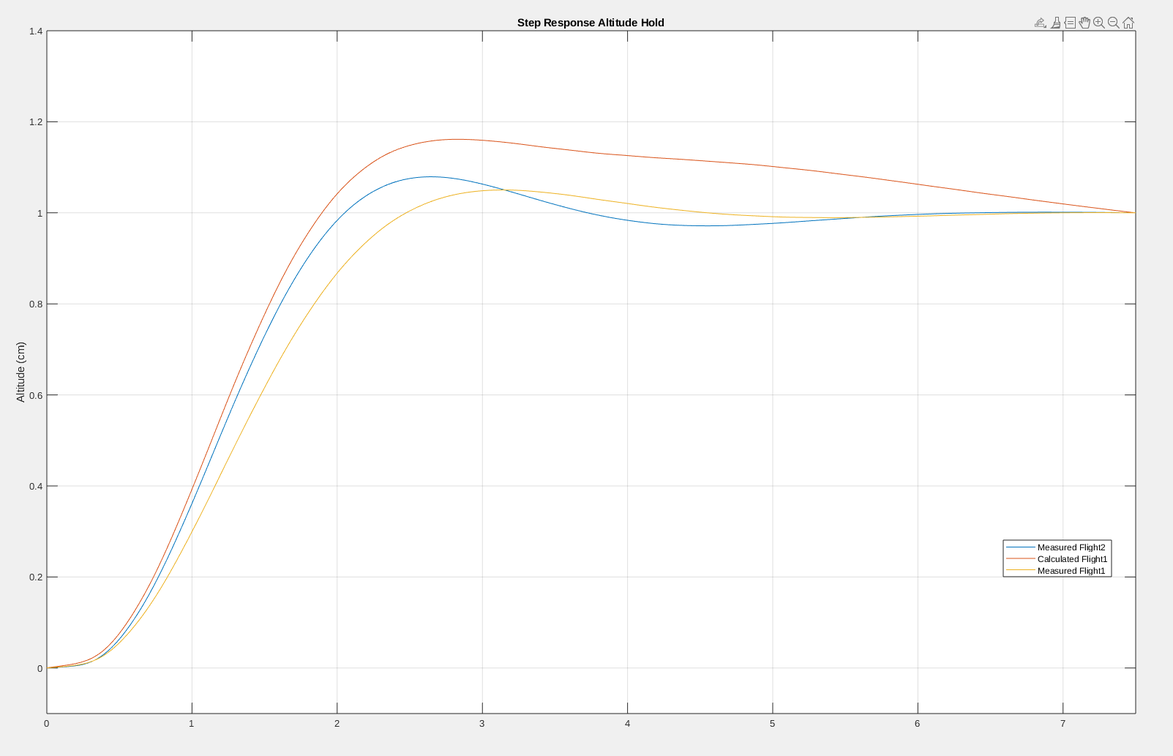
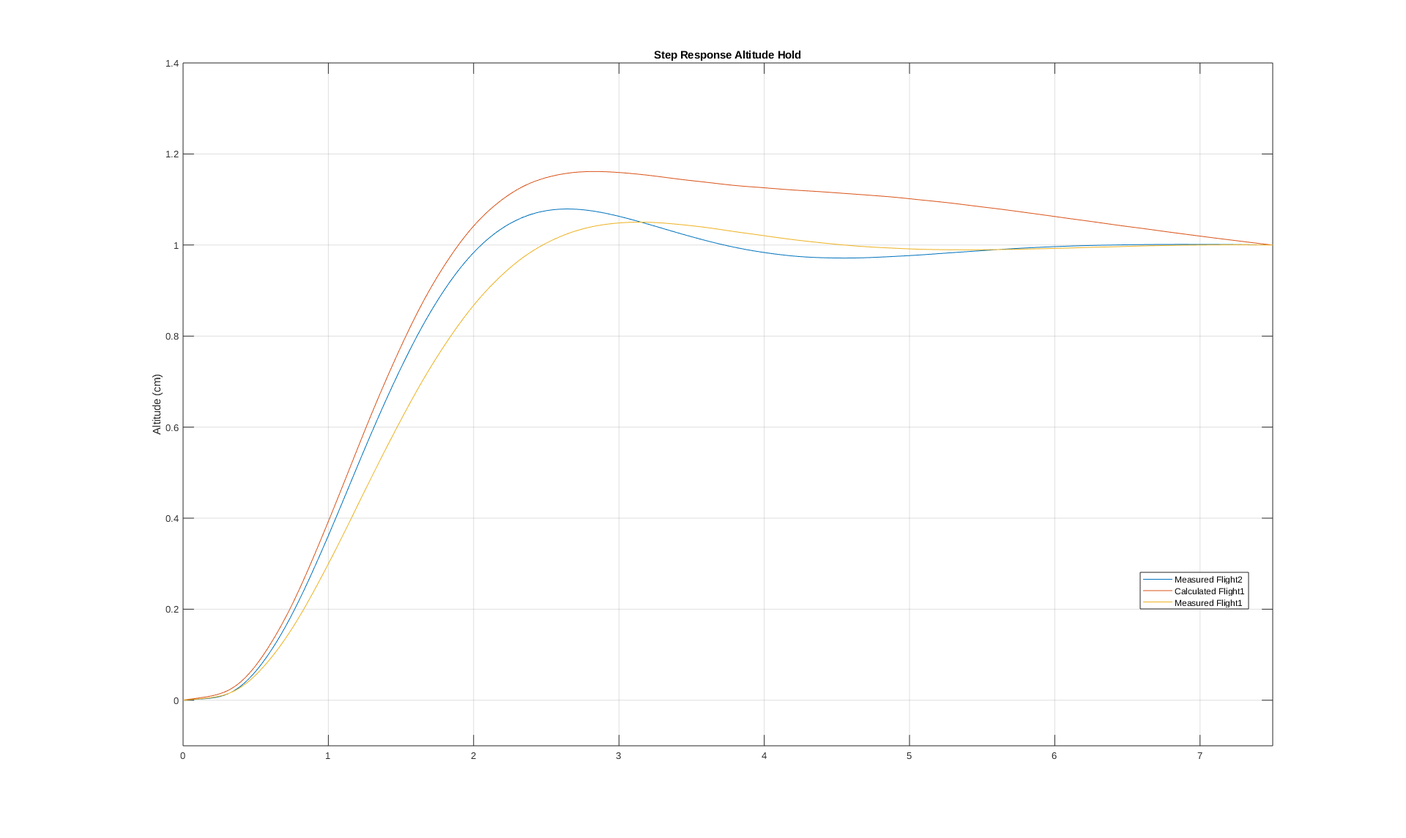
Update Result and Discussion section

diff --git a/latex/main.tex b/latex/main.tex
@@ -2098,48 +2098,24 @@ The althold loop runs at \SI{100}{\hertz}, decimated from the \SI{8}{\kilo\hertz
     \label{fig:althold_gof}
 \end{figure}
 
-Peak magnitudes were extracted within the displayed band \(f \leq \SI{10}{\hertz}\). Of the four Gang-of-Four transfer functions, only the closed-loop tracking \(T\) is directly identifiable from the chirp input/output pair; \(S\), \(SC\) and \(SP\) are computed from the identified plant combined with the controller model and are therefore reported as analytical only. The tracking peaks (analytical and measured) are listed in \autoref{tab:althold_gof_T}; the analytical \(S\), \(SC\), \(SP\) peaks are listed in \autoref{tab:althold_gof_SSCSP}. The analytical responses use the named controller applied to the default-flight plant.
+Of the four Gang-of-Four transfer functions shown in \autoref{fig:althold_gof}, only the closed-loop tracking \(T\) is directly identifiable from the chirp input/output pair; \(S\), \(SC\) and \(SP\) are computed from the identified plant combined with the controller model and are therefore analytical only. Of these, the sensitivity peak is the scalar with a direct robustness interpretation, and it is the only peak reported numerically here. The analytical sensitivity peaks, extracted within the displayed band \(f \leq \SI{10}{\hertz}\) using the named controller applied to the default-flight plant, are listed in \autoref{tab:althold_gof_S}.
 
 \begin{table}[H]
     \centering
-    \caption{Closed-loop tracking peak magnitudes \(|T|\) for the althold loop and the frequencies at which they occur, restricted to \(f \leq \SI{10}{\hertz}\). Analytical: named-case controller applied to the default-flight plant. Measured: directly identified from the chirp input/output pair of the named flight.}
-    \label{tab:althold_gof_T}
-    \begin{tabular}{lrrrr}
+    \caption{Analytical sensitivity peak magnitudes \(|S|\) for the althold loop and the frequencies at which they occur, restricted to \(f \leq \SI{10}{\hertz}\). All values use the named-case controller applied to the default-flight plant.}
+    \label{tab:althold_gof_S}
+    \begin{tabular}{lrr}
         \toprule
-                & \multicolumn{2}{c}{Analytical} & \multicolumn{2}{c}{Measured} \\
-        \cmidrule(lr){2-3}\cmidrule(lr){4-5}
-        Case    & peak [\si{\decibel}] & \(f\) [\si{\hertz}] & peak [\si{\decibel}] & \(f\) [\si{\hertz}] \\
+        Case   & peak [\si{\decibel}] & \(f\) [\si{\hertz}] \\
         \midrule
-        default & ---       & ---   & \(+2.91\) & 0.067 \\
-        tuned   & \(+3.35\) & 0.067 & \(+2.27\) & 0.067 \\
-        medium  & \(+4.68\) & 0.067 & \(+3.23\) & 0.067 \\
-        bad     & \(+6.09\) & 0.067 & \(+4.16\) & 0.067 \\
+        tuned  & \(+6.43\) & 0.400 \\
+        medium & \(+4.82\) & 0.333 \\
+        bad    & \(+3.99\) & 0.267 \\
         \bottomrule
     \end{tabular}
 \end{table}
 
-\begin{table}[H]
-    \centering
-    \caption{Analytical Gang-of-Four peak magnitudes for sensitivity \(S\), controller effort \(SC\) and compliance \(SP\), restricted to \(f \leq \SI{10}{\hertz}\). All values use the named-case controller applied to the default-flight plant.}
-    \label{tab:althold_gof_SSCSP}
-    \begin{tabular}{llrr}
-        \toprule
-        Metric & Case   & peak [\si{\decibel}] & \(f\) [\si{\hertz}] \\
-        \midrule
-        \(S\)  & tuned  & \(+6.43\) & 0.400 \\
-               & medium & \(+4.82\) & 0.333 \\
-               & bad    & \(+3.99\) & 0.267 \\
-        \(SC\) & tuned  & \(+0.27\) & 0.467 \\
-               & medium & \(-2.63\) & 0.867 \\
-               & bad    & \(-4.99\) & 1.133 \\
-        \(SP\) & tuned  & \(+16.76\) & 0.067 \\
-               & medium & \(+20.60\) & 0.067 \\
-               & bad    & \(+24.28\) & 0.067 \\
-        \bottomrule
-    \end{tabular}
-\end{table}
-
-The analytical tracking peak grows monotonically with the gain step from default: \SI{+3.35}{\decibel} (tuned), \SI{+4.68}{\decibel} (medium), \SI{+6.09}{\decibel} (bad). The measured peak follows the same ordering and ranges from \SI{+2.27}{\decibel} (tuned) to \SI{+4.16}{\decibel} (bad). The analytical-versus-measured \(|T|\)-peak difference is \SI{1.08}{\decibel} for tuned, \SI{1.45}{\decibel} for medium and \SI{1.93}{\decibel} for bad. For all entries except the \(SC\) row, the peak falls at the lowest Welch bin (\SI{0.067}{\hertz}), where the joint coherence is below 0.05; the corresponding values therefore reflect the low-frequency end of the response within the available frequency resolution.
+The analytical sensitivity peak increases with the controller gain: it is highest for the tuned case (\SI{+6.43}{\decibel}, close to the \SI{6}{\decibel} value commonly taken as a robustness limit) and lower for the medium (\SI{+4.82}{\decibel}) and bad (\SI{+3.99}{\decibel}) cases, the latter having the lowest gains. This is consistent with the more aggressive tune trading robustness margin for a faster response (cf. the rise times in \autoref{tab:althold_step}). In contrast to the tracking and compliance responses, these sensitivity peaks fall within or near the more coherent part of the band (\SIrange{0.27}{0.40}{\hertz}), so they are less affected by the low-coherence behaviour discussed in the following chapter.
 
 \subsection*{Step Response}
 
@@ -2204,24 +2180,23 @@ The chirp was swept exponentially from \SI{0.05}{\hertz} to \SI{3}{\hertz} over 
     \label{fig:poshold_gof}
 \end{figure}
 
-The tracking peaks, restricted to the excited band \(f \leq \SI{3}{\hertz}\), are listed in \autoref{tab:poshold_gof}. The analytical prediction for the proposed tuning peaks at \SI{+4.79}{\decibel} near \SI{0.20}{\hertz}, within about \SI{0.7}{\decibel} of the measured proposed peak (\SI{+4.05}{\decibel} at the same frequency); the measured baseline peaks lower, at \SI{+2.71}{\decibel}. Below the coherent band (roughly \SIrange{0.27}{3}{\hertz}) the comparison is dominated by wind and GPS noise.
+The analytical and measured tracking responses are compared in \autoref{fig:poshold_gof}. Within the excited band \(f \leq \SI{3}{\hertz}\), the analytical prediction for the proposed tuning peaks near \SI{0.20}{\hertz} and stays within about \SI{0.7}{\decibel} of the measured proposed response there, while the measured baseline peaks lower; below the coherent band (roughly \SIrange{0.27}{3}{\hertz}) the comparison is dominated by wind and GPS noise. As in the altitude-hold loop, the sensitivity peak is the only one of the four transfer functions with a direct robustness interpretation, and it is the only peak reported numerically here; the analytical sensitivity peaks are listed in \autoref{tab:poshold_gof_S}.
 
 \begin{table}[H]
     \centering
-    \caption{Closed-loop tracking peak magnitudes \(|T|\) for the position-hold loop, restricted to the excited band \(f \leq \SI{3}{\hertz}\). Analytical: proposed controller applied to the baseline-flight plant. Measured: identified directly from the chirp of the named flight.}
-    \label{tab:poshold_gof}
+    \caption{Analytical sensitivity peak magnitudes \(|S|\) for the position-hold loop (proposed controller, roll axis), restricted to the excited band \(f \leq \SI{3}{\hertz}\). The proposed controller is evaluated on both the baseline-flight and proposed-flight plant identifications.}
+    \label{tab:poshold_gof_S}
     \begin{tabular}{lrr}
         \toprule
-        Source                  & peak \(|T|\) [\si{\decibel}] & \(f\) [\si{\hertz}] \\
+        Plant            & peak [\si{\decibel}] & \(f\) [\si{\hertz}] \\
         \midrule
-        measured baseline       & \(+2.71\) & 0.13 \\
-        analytical (proposed)   & \(+4.79\) & 0.20 \\
-        measured proposed       & \(+4.05\) & 0.20 \\
+        baseline-flight  & \(+5.35\) & 0.267 \\
+        proposed-flight  & \(+4.71\) & 0.333 \\
         \bottomrule
     \end{tabular}
 \end{table}
 
-The analytical sensitivity \(S\) peaks near \SI{+5}{\decibel} and the controller effort \(SC\) stays below \SI{-8}{\decibel} within the coherent band, indicating modest actuation demand on the inner angle loop. The compliance \(SP\) peak falls at the lowest Welch bin, where the coherence is very low, and is interpreted as an artefact rather than a physical resonance.
+The proposed controller reaches a sensitivity peak of \SI{+5.35}{\decibel} on the baseline-flight plant and \SI{+4.71}{\decibel} on the proposed-flight plant, both below the \SI{6}{\decibel} value commonly taken as a robustness limit and falling within the coherent band. The controller effort \(SC\) stays below \SI{-8}{\decibel} within the coherent band, indicating modest actuation demand on the inner angle loop. The compliance \(SP\) peak falls at the lowest Welch bin, where the coherence is very low, and is interpreted as an artefact rather than a physical resonance.
 
 \subsection*{Step Response}
 
@@ -2253,78 +2228,36 @@ The proposed tuning gives a faster rise with higher overshoot than the baseline.
 
 \chapter{Discussion}
 
-\section{Gyro Controller}
+The four control loops examined in this work fall into two regimes that differ in the bandwidth of the sensor that closes the loop. The gyro and angle loops are closed on the IMU at \SI{8}{\kilo\hertz}, where the chirp identification is well conditioned across the excited band; the altitude- and position-hold loops are closed on slower navigation-sensor feedback, a fused barometer/GPS altitude estimate at \SI{100}{\hertz} and GPS position at approximately \SI{10}{\hertz}, where the available identification bandwidth is itself the limiting factor. The discussion is organised along this split: the attitude loops, where the method performs as designed, and the navigation loops, where it serves as a proof of concept.
 
-\subsection*{Validity range of the prediction}
+Three observations recur across all four loops and are stated here once. First, the prediction rests on a linear, time-invariant approximation of the plant identified at a single tune, so its accuracy degrades as the gain step away from that baseline grows; within the tested range the agreement was close for single increments and loosened for larger steps. Second, this places the tool in the role of a guidance instrument for \emph{incremental} retuning: the plant should be identified from a flight at the current tune, one step predicted at a time, and the plant re-identified between steps when a larger change is intended. Third, the configurations under which the tool was validated here (the experimental airframe and firmware build, and the loop rates noted above) bound the range over which these observations should be transferred to other setups.
 
-Within the tested range, the analytical prediction reproduced both the rise time and the overshoot of the measured rate-loop response for each single-increment tuning step, which suggests that the identified plant and controller models capture the rate-loop dynamics well in this operating range. The agreement was close for both steps in \autoref{tab:gyro_step}; the overshoot gap was slightly larger for the bigger bad \(\rightarrow\) moderate step than for the smaller moderate \(\rightarrow\) tuned step, which is consistent with the linear, time-invariant assumption holding only approximately and the approximation loosening as the gain change grows.
+\section{Attitude loops}
 
-\subsection*{Practical workflow recommendations}
+In both attitude loops the chirp excitation produces a well-conditioned identification across the band, so the linear, time-invariant approximation is the only meaningful source of prediction error.
 
-These observations suggest that the tool is well suited to incremental retuning of the rate gains: identifying the plant at the current tune and predicting one step at a time appeared to give close agreement here, and re-identifying between steps is advisable when a larger change is intended. The configurations under which these results were obtained (the experimental airframe and firmware build, the rate loop running at \SI{8}{\kilo\hertz}, and the PID range spanned by the bad, moderate, and tuned settings) bound the range over which the observations above should be transferred to other setups.
+\subsection*{Gyro}
 
-\section{Angle Controller}
+For the rate (gyro) loop this is the best case observed: the analytical prediction reproduced both the rise time and the overshoot of the measured response for each single-increment step (\autoref{tab:gyro_step}), the overshoot being captured here as tightly as the rise time rather than over-predicted as in altitude hold. The overshoot gap was slightly larger for the bigger bad \(\rightarrow\) moderate step than for the smaller moderate \(\rightarrow\) tuned step, consistent with the linear, time-invariant assumption holding only approximately and loosening as the gain change grows.
 
-\subsection*{Validity range of the prediction}
+\subsection*{Angle}
 
-Within the tested range, the analytical prediction reproduced the measured rise-time trend for both single-increment gain steps, which suggests that the identified plant and controller models provide a usable representation of the angle-loop dynamics in this operating range. The prediction consistently indicated a slightly faster response than was measured, and the analytical-versus-measured gap in \autoref{tab:angle_step} was larger for the bigger relative gain step (\(P = 50 \rightarrow 80\)) than for the smaller one (\(P = 80 \rightarrow 100\)). This is consistent with the linear, time-invariant assumption holding only approximately, with the approximation appearing to degrade as the gain step grows. The angle loop remained essentially overshoot-free across the tested range, so the transient shape was captured in all cases.
+For the angle loop the prediction reproduced the measured rise-time trend for both single-increment gain steps but consistently indicated a slightly faster response than was measured, the analytical-versus-measured gap in \autoref{tab:angle_step} being larger for the bigger relative step (\(P = 50 \rightarrow 80\)) than for the smaller one (\(P = 80 \rightarrow 100\)). The loop remained essentially overshoot-free across the tested range, so the transient shape was captured in every case and the residual error is confined to the predicted speed.
 
-\subsection*{Practical workflow recommendations}
+\section{Navigation loops}
 
-These observations suggest that the tool is best applied to incremental retuning of the angle gain: identifying the plant at the current tune and predicting one gain step at a time appeared to give the closest agreement here, and re-identifying between steps is advisable when a larger change is intended. The configurations under which these results were obtained (the experimental airframe and firmware build, a proportional angle controller with a third-order pre-filter at \(f_{c} = \SI{50}{\hertz}\), and the gain range \(P = 50\) to \(100\)) bound the range over which the observations above should be transferred to other setups.
+In the navigation loops the limiting factor is no longer the linear approximation but the identification itself. The feedback sensors restrict the usable bandwidth to a narrow, low-frequency band, so the synthesised step response, which requires accurate magnitude \emph{and} phase across the full identification band, is the less reliable of the two comparisons, while the Gang of Four, reported as magnitude only at each frequency, is treated as the primary tuning artefact. Both loops are therefore presented as a proof of concept rather than a validated predictor.
 
-\section{Altitude Hold Controller}
+\subsection*{Altitude hold}
 \label{sec:discussion_althold}
 
-The results section establishes that the analytical tuning model reproduces the measured closed-loop response within a bounded range of controller-gain settings around the baseline and that the agreement degrades as the gain step from baseline grows larger. The four cases reported in \autoref{tab:althold_gof_T} and \autoref{tab:althold_step} also expose two further patterns worth addressing: the analytical step response systematically over-predicts the measured overshoot and the joint coherence of the identification limits the frequency band over which any of these comparisons can be trusted. This discussion treats the four themes in turn: the validity range of the prediction, the identification limits, the step-response over-prediction and the practical workflow that follows from them.
+The altitude-hold prediction is bounded on two sides. Its accuracy degrades as the gain step from the default tune grows (the overshoot gap in \autoref{tab:althold_step} widens from \SI{8.3}{} to \SI{15.0}{} percentage points) because the plant was identified at the default tune and larger gains push the airframe outside the small-signal hover envelope, with between-flight drift adding a baseline offset. In frequency, the joint coherence supports the comparison only over approximately \SIrange{0.3}{1}{\hertz} (\autoref{fig:plant_altitude_measured}); the exponential chirp under-excites the lowest decade and environmental drift, thermals and slow wind dominate the altitude signal below \SI{0.3}{\hertz}, so the low-frequency rise of the tracking and compliance curves in \autoref{fig:althold_gof} is an estimation artefact rather than a physical resonance. The sensitivity peaks in \autoref{tab:althold_gof_S} fall inside the coherent band and are unaffected.
 
-\subsection*{Validity range of the prediction}
+Within that band the analytical overshoot in \autoref{tab:althold_step} exceeds the measured while the rise times agree to within \SI{0.07}{\second}; this directional gap reflects the approximate firmware-D-path model and the band-limited, phase-noisy step reconstruction, so it is best read as a model-derived upper bound, with the rise time the more reliable step-domain metric. Two caveats follow: the chirp amplitude must keep the actuator out of saturation, and the results were obtained on firmware build \href{https://github.com/InsaneBroccoli/betaflight/commit/898435640}{\texttt{InsaneBroccoli/betaflight @ 898435640}} with \texttt{USE\_ALTHOLD\_CHIRP} enabled, around a hover baseline.
 
-The model-vs-measured divergence reported in the results section grows monotonically with the gain step from the default tune: the \(|T|\)-peak gap rises from \SI{1.08}{\decibel} (tuned) through \SI{1.45}{\decibel} (medium) to \SI{1.93}{\decibel} (bad) in \autoref{tab:althold_gof_T} and the step-response overshoot gap rises from \SI{8.3}{} to \SI{15.0}{} percentage points across the same cases in \autoref{tab:althold_step}. D-Boost and I-Term-Relax are disabled during the chirp and throttle saturation does not occur within the tested envelope, so candidate causes that depend on those firmware nonlinearities do not apply here.
+\subsection*{Position hold}
 
-The observed scaling is consistent with three mechanisms acting together. Operating-regime sensitivity of the identified plant appears to be the dominant contributor: the base-flight plant was identified at the default tune, where the closed loop drove the airframe through a particular envelope of excursion amplitude and motor RPM and larger gains drive that envelope into regions the identification did not cover. The small-signal linearisation around hover loses representativeness as the controller produces larger transient excursions. Between-flight plant drift contributes a baseline offset that does not scale with the gain step but adds to it, since each compared response comes from a separate flight with its own battery state, ambient conditions and airframe condition.
-
-Within the tested range, this places the tool in the role of a guidance instrument for \emph{incremental} retuning rather than a predictor of arbitrary tunings: each retuning step is reliable to the extent that the new controller drives the system through an envelope close to the one in which the plant was identified.
-
-\subsection*{Identification limits}
-
-The identified plant has a magnitude slope close to \(-40\,\text{dB/decade}\) between \SI{0.1}{\hertz} and \SI{1}{\hertz}, and the joint coherence rises above 0.79 only between approximately \SI{0.27}{\hertz} and \SI{1}{\hertz}. Outside this band the prediction has no measured ground truth to support it.
-
-The narrow coherence band is consistent with several mechanisms. The exponential chirp distributes its energy logarithmically across frequency, so the lowest decade is under-excited; the Welch estimate at the lowest bin (\SI{0.067}{\hertz}) contains only about one period of that frequency within the \SI{15}{\second} window and therefore has high variance independently of the chirp design. Environmental disturbances such as ambient drift, thermals and slow wind components dominate the altitude signal below \SI{0.3}{\hertz} and reduce the input--output correlation that the coherence measures. The controller pre-filter and the disabled-during-identification nonlinearities together limit the usable upper band.
-
-The implication is that the \(|T|\) and \(SP\) peaks reported in \autoref{tab:althold_gof_T} and \autoref{tab:althold_gof_SSCSP} at \SI{0.067}{\hertz} should be interpreted as artefacts of the low-coherence end of the estimation rather than as physical resonances; the trustworthy comparison band is approximately \SIrange{0.3}{1}{\hertz}.
-
-\subsection*{Step-response overshoot over-prediction}
-
-The analytical overshoot in \autoref{tab:althold_step} exceeds the measured overshoot for every compare case, while the rise times agree to within \SI{0.07}{\second}. Both the analytical and the measured step are reconstructions from chirp-window frequency-response data via the same procedure, with the same firmware nonlinearities disabled in both branches. The asymmetric gap therefore does not originate in in-flight regime changes (D-Boost re-engagement, transient throttle saturation) but in the model and the reconstruction.
-
-Two mechanisms appear to contribute. First, the analytical model approximates the firmware D path as an ideal backward-difference differentiator followed by a single PT2 low-pass filter with cutoff \(f_{c} = \SI{1}{\hertz}\). The firmware D term in fact uses the autopilot's vertical-velocity signal, which is itself produced by a sample-to-sample differentiation of the sensor-low-passed altitude estimate followed by a second PT2 low-pass filter with a configurable cutoff. The structures are similar, but the analytical and firmware low-pass cutoffs are not guaranteed to coincide; any mismatch alters the effective D gain near the closed-loop resonance. This is consistent with a gap that is concentrated in the overshoot, where the response is most sensitive to D action, while leaving the rise time largely unaffected.
-
-Second, the synthesised step appears to provide a less reliable basis for the comparison than the Gang of Four does. The Gang of Four is presented as magnitude only at each frequency, whereas a synthesised step requires accurate magnitude \emph{and} phase across the full identification band; phase estimates from a Welch FRD are generally noisier than magnitude estimates, especially in lower-coherence regions and the reconstruction is band-limited at the cutoff \(f_{\max} = \SI{3}{\hertz}\), which removes the high-frequency content that determines the sharpness of transients. The Gang of Four reports what was identified, with no implicit extrapolation and may be the more reliable comparison for that reason.
-
-Within the tested range, the analytical overshoot is best interpreted as a model-derived upper bound on the in-flight overshoot rather than a tight prediction. The rise time appears to be the more reliable step-domain metric and the Gang of Four the more reliable frequency-domain artefact for tuning decisions.
-
-\subsection*{Practical workflow recommendations}
-
-The three preceding subsections converge on a small set of recommendations for using the althold tuning tool within the validity range identified here.
-
-Identify the plant from a flight at the \emph{current} tune and do not reuse a plant identification across substantially different controllers. Limit each retuning step to small increments on the scale of the default-to-tuned step described in the results section; re-fly and re-identify between steps when a larger change is intended. Use the Gang of Four as the primary tuning artefact and treat the synthesised step response as a sanity check rather than a precise prediction. Read the analytical Gang of Four as design guidance only within the approximately \SIrange{0.3}{1}{\hertz} coherence band and treat values reported outside that band as uncertain.
-
-Two methodological notes follow from the same analysis. The chirp amplitude must be chosen so that the actuator does not saturate within the identification window: D-Boost and I-Term-Relax are disabled during the chirp specifically to keep the closed loop linear, and throttle saturation would violate the same assumption; if saturation is observed in the throttle-offset trace, the chirp signal must be re-designed before the resulting identification is trusted. Finally, the configurations under which the tool was validated in this work bound the range over which the claims above should be transferred to other setups: firmware build \href{https://github.com/InsaneBroccoli/betaflight/commit/898435640}{\texttt{InsaneBroccoli/betaflight @ 898435640}} (branching from upstream baseline \texttt{04e37a122}) with \texttt{USE\_ALTHOLD\_CHIRP} enabled, the airframe and propulsion configuration of the experimental drone, and a hover-baseline operating point.
-
-\section{Position Hold Controller}
-
-\subsection*{Identification limits}
-
-The position loop is identified through GPS feedback at approximately \SI{10}{\hertz}, which bounds the usable bandwidth far below that of the \SI{8}{\kilo\hertz} inner loops and introduces roughly \SI{100}{\milli\second} of latency through the cascaded position-error, PIDA, and rate stages. The joint coherence of the identification rises above 0.8 only between about \SI{0.27}{\hertz} and \SI{3}{\hertz}; below that band, wind disturbance and GPS noise dominate the position-error signal, so the frequency response there carries little information.
-
-\subsection*{Validity range of the prediction}
-
-Within the coherent band the analytical tracking response is consistent with the measured proposed tuning, and the step-response prediction is closer than the GPS-limited resolution might suggest: the predicted overshoot lies within about \num{3} percentage points of the measured value (\autoref{tab:poshold_step}). The proposed tuning increases overshoot relative to the baseline while giving a faster rise, and the measured proposed flight remained stable throughout. Because the step reconstruction is more sensitive to the un-excited high-frequency content and to GPS quantisation than the Gang of Four, the frequency-domain comparison appears to be the more reliable basis for tuning decisions here.
-
-\subsection*{Practical workflow recommendations}
-
-These observations suggest treating the position-hold tool as a proof of concept rather than a precise predictor: the Gang of Four within the approximately \SIrange{0.27}{3}{\hertz} coherent band is the most trustworthy artefact, and step-response values should be read as coarse indicators given the \SI{10}{\hertz} resolution. Closing the remaining gap would require higher-rate position estimates (for example, sensor fusion or optical flow) or restricting the excitation to the lowest part of the band where the GPS feedback is most reliable.
+The position loop is identified through GPS feedback at approximately \SI{10}{\hertz}, which bounds the usable bandwidth far below that of the \SI{8}{\kilo\hertz} inner loops and introduces roughly \SI{100}{\milli\second} of latency through the cascaded position-error, PIDA, and rate stages; the joint coherence rises above 0.8 only between about \SI{0.27}{\hertz} and \SI{3}{\hertz}, below which wind disturbance and GPS noise dominate the position-error signal. Within that band the analytical tracking response is consistent with the measured proposed tuning, and the step-response prediction is closer than the GPS-limited resolution might suggest: the predicted overshoot lies within about \num{3} percentage points of the measured value (\autoref{tab:poshold_step}), and the measured proposed flight remained stable throughout. The Gang of Four within the approximately \SIrange{0.27}{3}{\hertz} coherent band is the most trustworthy artefact, while the step-response values should be read as coarse indicators given the \SI{10}{\hertz} resolution. Closing the remaining gap would require higher-rate position estimates (for example, sensor fusion or optical flow) or restricting the excitation to the lowest part of the band where the GPS feedback is most reliable.
 
 \chapter{Conclusion}
 
